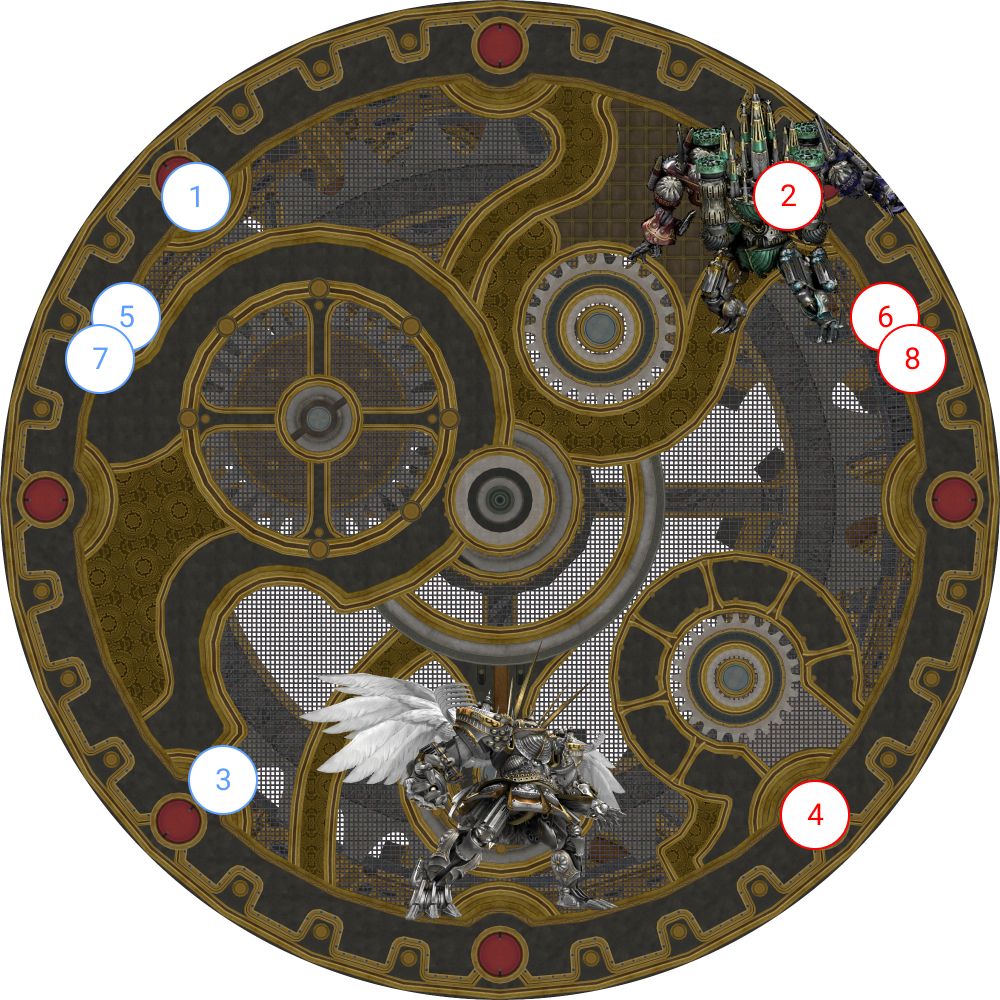
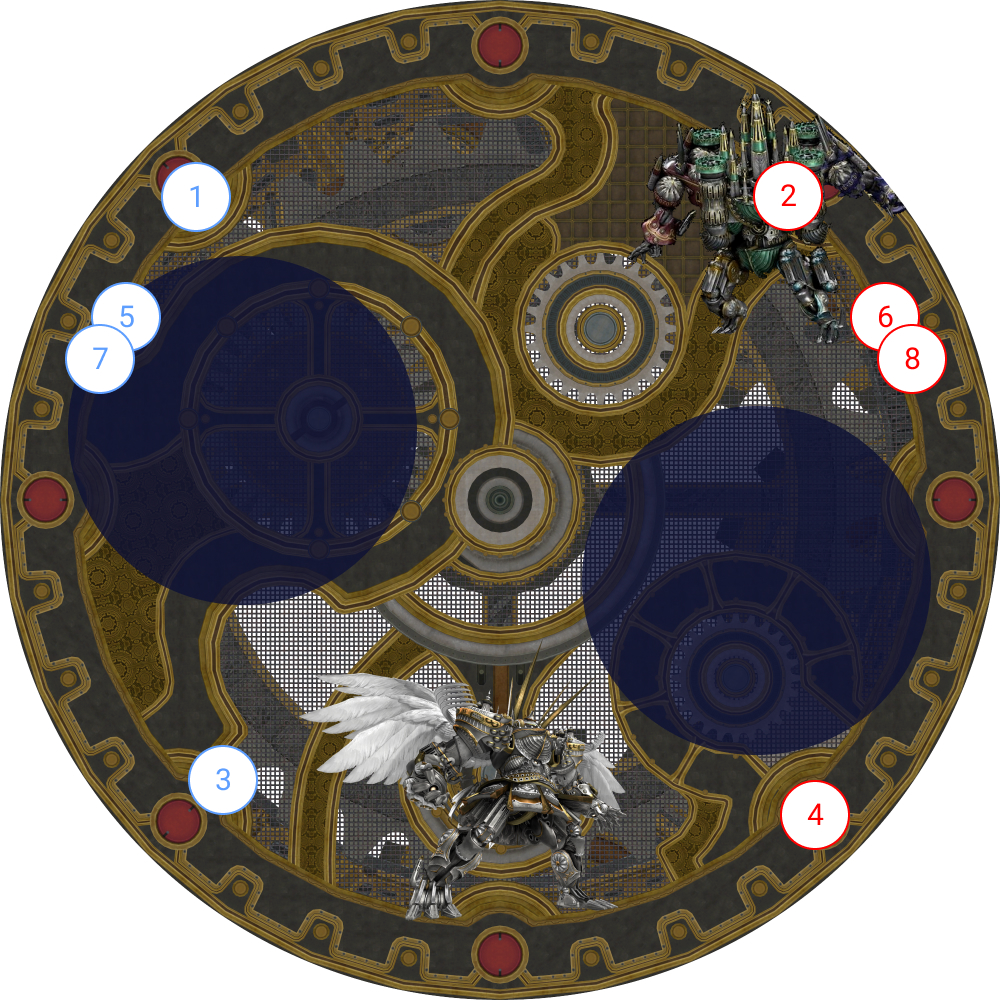
Add info on Void puddles

Changed region(s): [[0.558, 0.403, 0.93, 0.775], [0.062, 0.248, 0.434, 0.62]]

diff --git a/ultimates/tea/03_alex_prime.en.md b/ultimates/tea/03_alex_prime.en.md
@@ -161,8 +161,30 @@ Remember that **all odd numbered players must face outside the arena and use Arm
 	<td><img src="{{site.baseurl}}/assets/images/ultimates/tea/03/wormhole_01.jpg"></td>
   </tr>
   <tr>
-    <td><p><b>2.</b> Move to positions.</p><ul><li>The person diagonally opposite Brute Justice (3 or 4) should bait Super Jump <b>in front of the red dot.</b></li><li>The person diagonally opposite Cruise Chaser (3 or 4) should go <b>all the way to the edge</b> to dodge Apocalyptic Ray.</li><li><b>1</b> and <b>2</b> use anti-knockback abilities.</li></ul><p><em>(Notice</em> <b>3</b> <em>is</em> slightly <em>further in because they will be baiting Super Jump in this example.</em> <b>4</b> <em> is all the way at the edge.)</em></p></td>
-	<td><img src="{{site.baseurl}}/assets/images/ultimates/tea/03/wormhole_02.jpg"></td>
+    <td>
+      <p><b>2.</b> Move to positions.</p>
+      <ul>
+        <li>The person diagonally opposite Brute Justice (3 or 4) should bait 
+        Super Jump <b>in front of the red dot.</b></li>
+        <li>The person diagonally opposite Cruise Chaser (3 or 4) should go 
+        <b>all the way to the edge</b> to dodge Apocalyptic Ray.</li>
+        <li><b>1</b> and <b>2</b> use anti-knockback abilities.</li>
+      </ul>
+      <p><em>(Notice</em> <b>3</b> <em>is</em> slightly <em>further in because 
+      they will be baiting Super Jump in this example.</em> <b>4</b> <em> is 
+      all the way at the edge.)</em></p>
+      <p>Two Void puddles will also spawn slightly offset from the East
+      and West. These need to be soaked three times, by specific players.</p>
+      <ul>
+        <li><b>1st soak:</b> 5 + 6</li>
+        <li><b>2nd soak:</b> 7 + 8</li>
+        <li><b>3rd soak:</b> 1 + 2</li>
+      </ul>
+      <p>Each time a player takes the puddle, the puddle gets smaller.</p>
+    </td>
+	  <td>
+      <img src="{{site.baseurl}}/assets/images/ultimates/tea/03/wormhole_02.jpg">
+    </td>
   </tr>
   <tr>
     <td><p><b>3. </b>Chakrams fly. Brute Justice Super Jumps on the furthest player.</p><p>Cruise Chaser cleaves <b>1</b>.</p><p>The player that originally started in front of Brute Justice (either <b>1</b> or <b>2</b>) stays on the red dot until Apocalyptic Ray comes out. </p></td>
@@ -349,13 +371,13 @@ The party then proceeds onto Perfect Alexander.
 
 <details markdown=block>
   <summary><b>[Wormhole Formation]</b> Can either 3 or 4 take the final 
-  Repentace puddle if 1 or 2 are dead?</summary>
+  Void puddle if 1 or 2 are dead?</summary>
 <table>
   <tr>
     <td>
       <p>Cruise Chaser's <em>Alpha Sword</em> applies a <em>Magic Vulnerability 
       Up</em> debuff that means that 3 and 4 <b>cannot</b> take the final 
-      Repentance puddle in the event 1 or 2 are dead.</p>
+      Void puddle in the event 1 or 2 are dead.</p>
       <p><b>However</b>, although the vulnerability increases damage taken by 
       roughly 6-7 times, the puddle's damage is low enough that a tank can take 
       the puddle with a <em>Magic Vulnerability Up</em> debuff without any 
